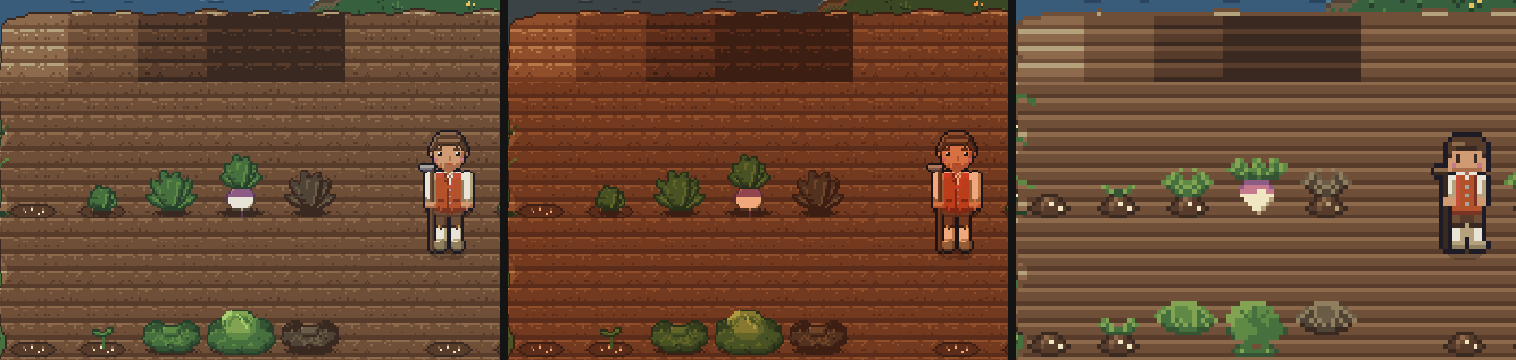
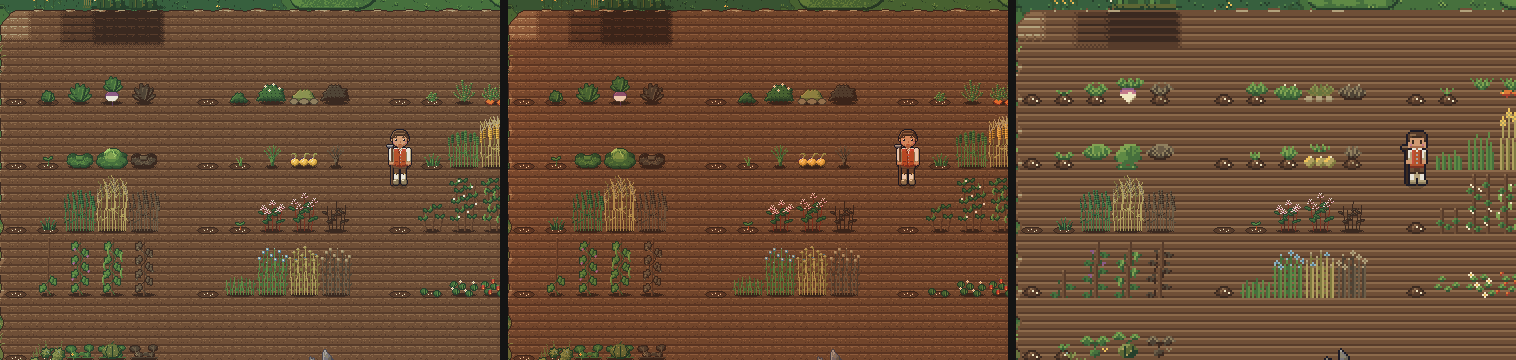
README: watered soil fades out at its edge, with a close-up; soil.png re-taken
Task 167: a wetter tile's brown fades out into the drier tilled soil beside it. A close-up of
the row from dry to soaked over fresh soil in the 32 px and the classic art, and the soil
picture re-taken (noon, evening, classic) as it shows the fades now.

diff --git a/README.md b/README.md
@@ -159,6 +159,13 @@ soaked and sown and growing crops on it, at noon, in the evening and in the clas
 
 ![Tilled soil from dry to soaked with sown and growing crops, at noon, in the evening and in the classic art](docs/screenshots/soil.png)
 
+Where a tile is wetter than the tilled soil beside it, as after the watering can, its dark brown
+fades out into the drier soil over a few pixels, at the sides and the corners; tiles as wet as
+each other show no edge, and the field's rim against the turf stays as it is. The close-up shows
+the row from dry to soaked over fresh soil, four times enlarged, in the 32 px and the classic art.
+
+![Tilled soil from dry to soaked, each tile's brown fading out into the drier soil beside it, four times enlarged, in the 32 px and the classic art](docs/screenshots/soil-fade.png)
+
 Tilled soil that nobody tends goes back over the days: with nothing on it, after 5 days a few
 weeds and tufts of grass come up, and after 10 it is grass again, with the look its place had (the
 items lying on it stay). Hoeing the weeds away, sowing, harvesting and watering start the count
